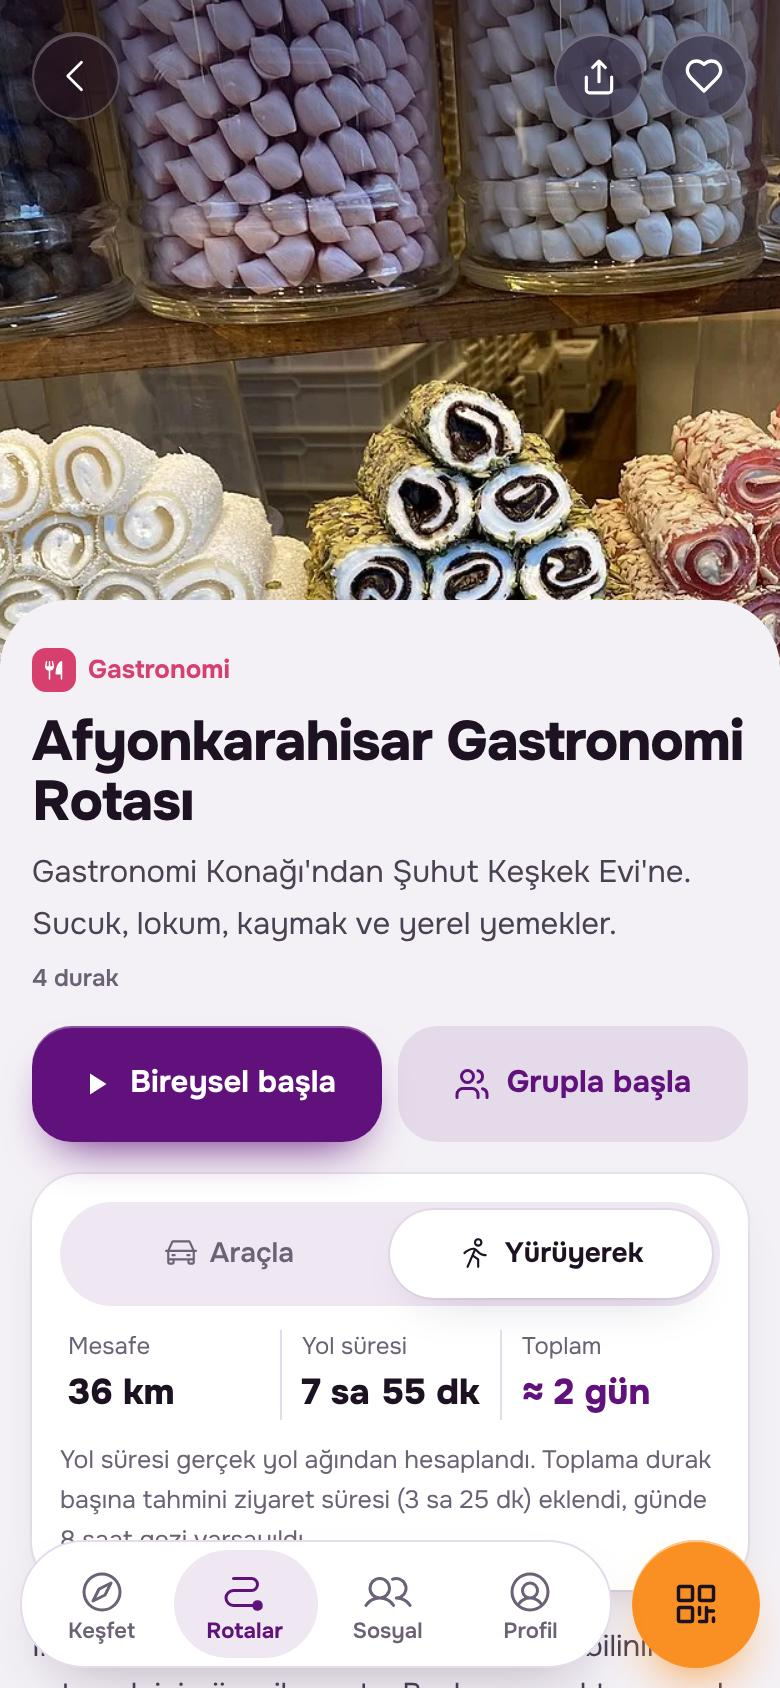
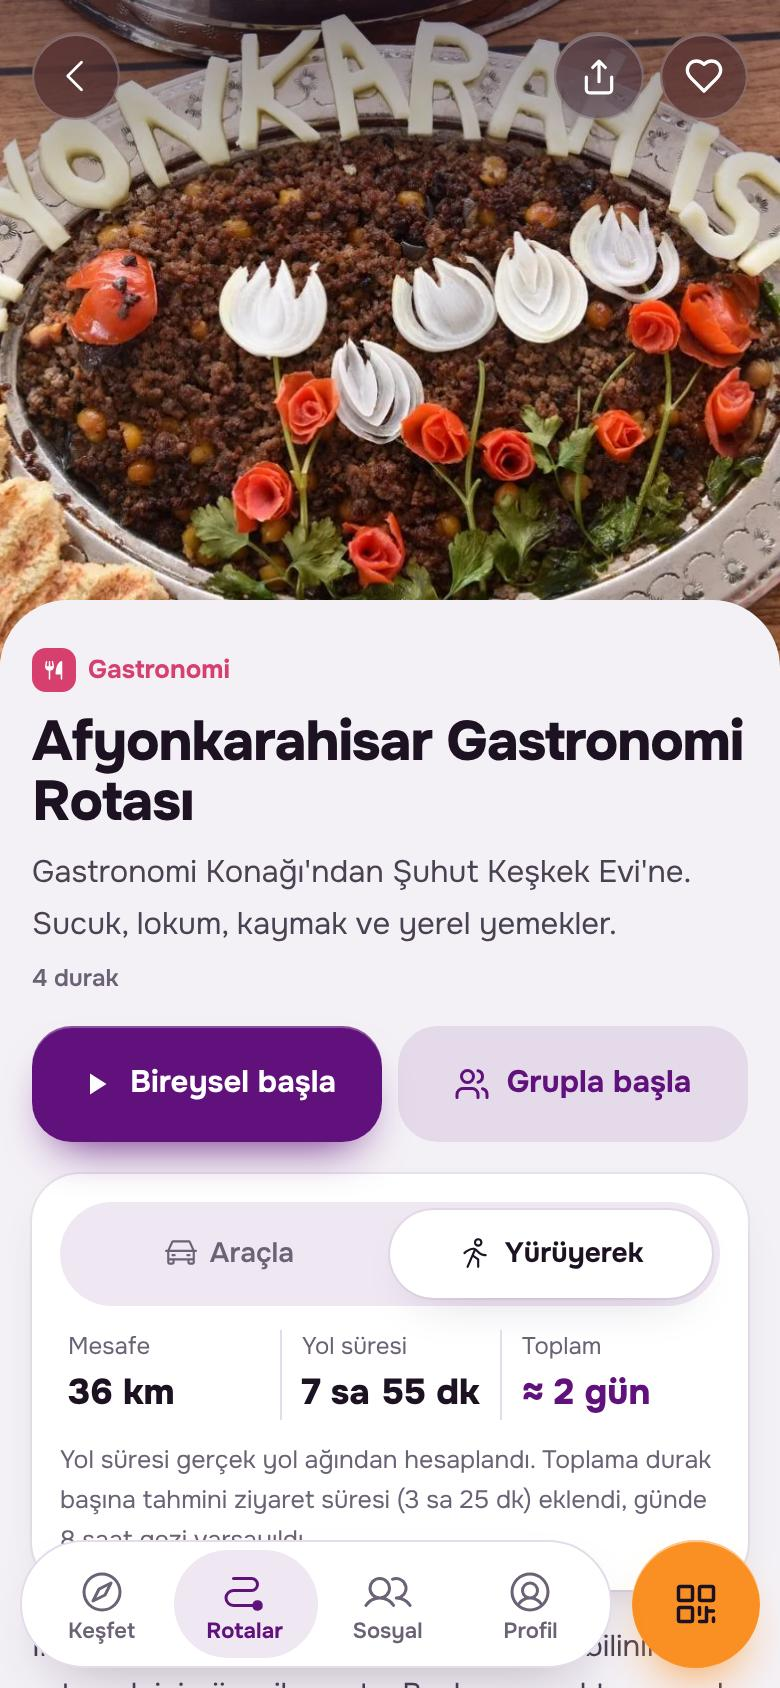
G-021: proje sahibinin görselleri eklendi
Claude-Session: https://claude.ai/code/session_01TdRnnCLKE8WCMtPtx4c8Nv

diff --git a/lib/photos.ts b/lib/photos.ts
@@ -1,7 +1,7 @@
 import tr from "@/messages/tr.json";
 /** Fotoğraflar Wikimedia Commons'tan; sahibi ve lisansı her kayıtta belirtilir. Doğrulanmamış duraklar bilerek yok. */
 /** rep: aynı bölgeden temsilî görsel (durağın kendisi değil). Arayüzde "Temsilî" etiketiyle gösterilir. */
-export type Photo = { src: string; alt: string; author: string; license: string; page: string; pos?: string; rep?: boolean };
+export type Photo = { src: string; alt: string; author: string; license: string; page: string; pos?: string; rep?: boolean; /** G-021: proje sahibinin sağladığı görsel, kaynak listesinde gösterilmez */ owner?: boolean };
 
 export const photos: Record<string, Photo> = {
   "afyon-muzesi": {"src": "/photos/afyon-muzesi.jpg", "alt": tr.photos["afyon-muzesi"], "author": "Nabbegat", "license": "CC BY-SA 4.0", "page": "https://commons.wikimedia.org/wiki/File:Afyonkarahisar_M%C3%BCzesi_01.jpg"},
@@ -57,8 +57,9 @@ export const photos: Record<string, Photo> = {
   "kadinanalar-turbesi": {"src": "/photos/c/8118ca31fa05.webp", "alt": tr.photos["kadinanalar-turbesi"], "author": "Dosseman", "license": "CC BY-SA 4.0", "page": "https://commons.wikimedia.org/wiki/File:Afyonkarahisar_Mevlevihanesi_Ablutions_fountain_1799.jpg", "rep": true},
   "tashan-merkez": {"src": "/photos/c/d40f0390675a.webp", "alt": tr.photos["tashan-merkez"], "author": "Maarten Sepp", "license": "CC BY-SA 3.0", "page": "https://commons.wikimedia.org/wiki/File:Afyon,_Turkey._-_panoramio_(1).jpg", "rep": true},
   "uzun-carsi": {"src": "/photos/c/cbbcf55419c3.webp", "alt": tr.photos["uzun-carsi"], "author": "Maarten Sepp", "license": "CC BY-SA 3.0", "page": "https://commons.wikimedia.org/wiki/File:Afyon,_Turkey._-_panoramio_(3).jpg", "rep": true},
-  /* G-021: Gastronomi Rotası kapağı. Durak değil, rota görseli. Sağdaki marka kutusu kırpıldı. */
-  "kapak-gastronomi": {"src": "/photos/c/57631fd1213b.webp", "alt": tr.photos["kapak-gastronomi"], "author": "Campo Carlo Magno", "license": "CC BY-SA 4.0", "page": "https://commons.wikimedia.org/wiki/File:Traditional_Turkish_Delight_in_Afyonkarahisar.jpg"},
+  /* G-021: Gastronomi Rotası kapağı ve Alimoğlu görseli proje sahibinin sağladığı görsellerdir. */
+  "kapak-gastronomi": {"src": "/photos/c/8489dd4abb5c.webp", "alt": tr.photos["kapak-gastronomi"], "author": "", "license": "", "page": "", "owner": true},
+  "alimoglu-muzik": {"src": "/photos/c/86cfa5277b2d.webp", "alt": tr.photos["alimoglu-muzik"], "author": "", "license": "", "page": "", "owner": true},
   "anitpark": {"src": "/photos/c/5ea004772c85.webp", "alt": tr.photos["anitpark"], "author": "Raicem", "license": "CC0", "page": "https://commons.wikimedia.org/wiki/File:The_Great_Victory_Monument_in_Afyonkarahisar.jpg"},
   "vesvese-dede": {"src": "/photos/c/fb2d10e345c9.webp", "alt": tr.photos["vesvese-dede"], "author": "Hüseyin Öcal", "license": "CC BY 3.0", "page": "https://commons.wikimedia.org/wiki/File:AFYON_KALES%C4%B0_-_panoramio.jpg", "rep": true},
   "tacahmet-cami": {"src": "/photos/c/fb2d10e345c9.webp", "alt": tr.photos["tacahmet-cami"], "author": "Hüseyin Öcal", "license": "CC BY 3.0", "page": "https://commons.wikimedia.org/wiki/File:AFYON_KALES%C4%B0_-_panoramio.jpg", "rep": true},

diff --git a/components/PhotoSlot.tsx b/components/PhotoSlot.tsx
@@ -21,7 +21,7 @@ export default function PhotoSlot({ className = "", label = true, id, credit = f
       {/* eslint-disable-next-line @next/next/no-img-element */}
       <img src={small && id ? `/photos/t/${id}.webp` : ph.src} alt={id ? photoText(id) : ph.alt} loading={eager ? "eager" : "lazy"} decoding="async" className="absolute inset-0 h-full w-full object-cover" style={{ objectPosition: ph.pos ?? "center", viewTransitionName: vt }} />
       {ph.rep && label && <span className="absolute right-2.5 top-[max(0.625rem,env(safe-area-inset-top))] rounded-full bg-black/50 px-2 py-0.5 text-[10.5px] font-semibold text-white backdrop-blur-sm">{g15("rep")}</span>}
-      {credit && <a href={ph.page} target="_blank" rel="noopener noreferrer" className="absolute bottom-9 right-3 max-w-[70%] truncate rounded-full bg-black/45 px-2.5 py-1 text-[10px] font-medium text-white">{tx("photo_98f27")} {ph.author} · {ph.license}</a>}
+      {credit && !ph.owner && <a href={ph.page} target="_blank" rel="noopener noreferrer" className="absolute bottom-9 right-3 max-w-[70%] truncate rounded-full bg-black/45 px-2.5 py-1 text-[10px] font-medium text-white">{tx("photo_98f27")} {ph.author} · {ph.license}</a>}
     </div>
   );
 }

diff --git a/app/[locale]/(pages)/hakkinda/page.tsx b/app/[locale]/(pages)/hakkinda/page.tsx
@@ -32,7 +32,7 @@ export default async function Hakkinda({ params }: { params: Promise<{locale: Lo
         <h2 className="font-display text-xl text-navy">{g("credits")}</h2>
         <p className="mt-1.5 text-sm leading-relaxed text-ink-2">{g("creditsIntro")}</p>
         <ul className="mt-3 flex flex-col gap-2">
-          {Object.entries(photos).map(([id, ph]) => (
+          {Object.entries(photos).filter(([, ph]) => !ph.owner).map(([id, ph]) => (
             <li key={id} className="rounded-2xl bg-white px-3.5 py-2.5 text-[13px] leading-snug shadow-card"><b className="block text-navy">{pt(id)}</b><a href={ph.page} target="_blank" rel="noopener noreferrer" className="text-mute underline decoration-line underline-offset-2">{g("photoBy", {author: ph.author, license: ph.license})}</a></li>
           ))}
           {Object.entries(ALBUMS).flatMap(([id, list]) => list.map((ph) => (

diff --git a/lib/covers.ts b/lib/covers.ts
@@ -3,7 +3,7 @@ import { routes } from "./routes";
 
 /** Her rota için, başka bir rotada kullanılmamış ilk fotoğraflı durağı seçer. Aynı fotoğraf iki kartta tekrarlanmaz, temsilî görsel kapak olmaz (G-016). */
 /** G-021: duraklarında gerçek fotoğraf olmayan rotalar için rota kapağı */
-const COVER_OVERRIDE: Record<string, string> = { "gastronomi-rotasi": "kapak-gastronomi" };
+const COVER_OVERRIDE: Record<string, string> = { "gastronomi-rotasi": "kapak-gastronomi", "merkez-kultur-rotasi": "afyon-muzesi" };
 
 export const routeCover: Record<string, string | undefined> = (() => {
   const used = new Set<string>(); const out: Record<string, string | undefined> = {};

diff --git a/docs/ekip/GOREVLER.md b/docs/ekip/GOREVLER.md
@@ -422,9 +422,10 @@ Uygulayıcının kullanım limiti dolduğu için proje sahibi işin yönetici ta
 
 ## G-021: Gastronomi Rotası kapağı ve Alimoğlu görseli
 - **Durum:** İncelemede.
-- **Neden:** Gastronomi Rotası'nın duraklarında yalnızca temsilî görsel olduğu için rota kartında ve rota sayfasında fotoğraf yoktu. İbrahim Alimoğlu Müzik Koleksiyonu için kullanılan temsilî görsel (AKÜ Camii) yanıltıcıydı.
+- **Neden:** Gastronomi Rotası'nın duraklarında yalnızca temsilî görsel olduğu için rota kartında ve rota sayfasında fotoğraf yoktu. İbrahim Alimoğlu Müzik Koleksiyonu için kullanılan temsilî görsel (AKÜ Camii) yanlıştı.
 - **Yapılanlar:**
-  - Gastronomi Rotası'na rota kapağı eklendi: Afyonkarahisar'da bir şekerci vitrininde lokum (Wikimedia Commons, Campo Carlo Magno, CC BY-SA 4.0). Sağdaki marka kutusu kırpıldı. Kapak, rota kartında, ana sayfada ve rota sayfasında görünür. Hakkında sayfasındaki fotoğraf listesine kendiliğinden eklenir.
-  - Alimoğlu durağındaki yanlış görsel kaldırıldı. Wikimedia Commons'ta koleksiyonun kendisine ait özgür lisanslı bir fotoğraf bulunamadı. Durakta "Fotoğraf eklenecek" alanı görünür.
-- **Açık soru:** Koleksiyonun fotoğrafı proje sahibinden ya da AKÜ Devlet Konservatuvarı'ndan izinle alınırsa eklenecek.
-- **Dosyalar:** `lib/photos.ts`, `lib/covers.ts`, `messages/tr.json`, `messages/en.json`, `public/photos/`.
+  - Gastronomi Rotası'na proje sahibinin verdiği görsel rota kapağı olarak eklendi. Rota kartında, ana sayfada ve rota sayfasında görünür.
+  - Alimoğlu durağındaki yanlış görsel, proje sahibinin verdiği koleksiyon görseliyle değiştirildi.
+  - Proje sahibinin isteğiyle bu iki görsel Hakkında sayfasındaki fotoğraf listesinde ve görsel üstündeki kaynak etiketinde gösterilmez (`owner` alanı).
+- **Not:** İki görselin kaynağı ve lisansı belirtilmedi. Valiliğe teslimden önce kullanım izninin netleştirilmesi önerilir.
+- **Dosyalar:** `lib/photos.ts`, `lib/covers.ts`, `components/PhotoSlot.tsx`, `app/[locale]/(pages)/hakkinda/page.tsx`, `messages/tr.json`, `messages/en.json`, `public/photos/`.
